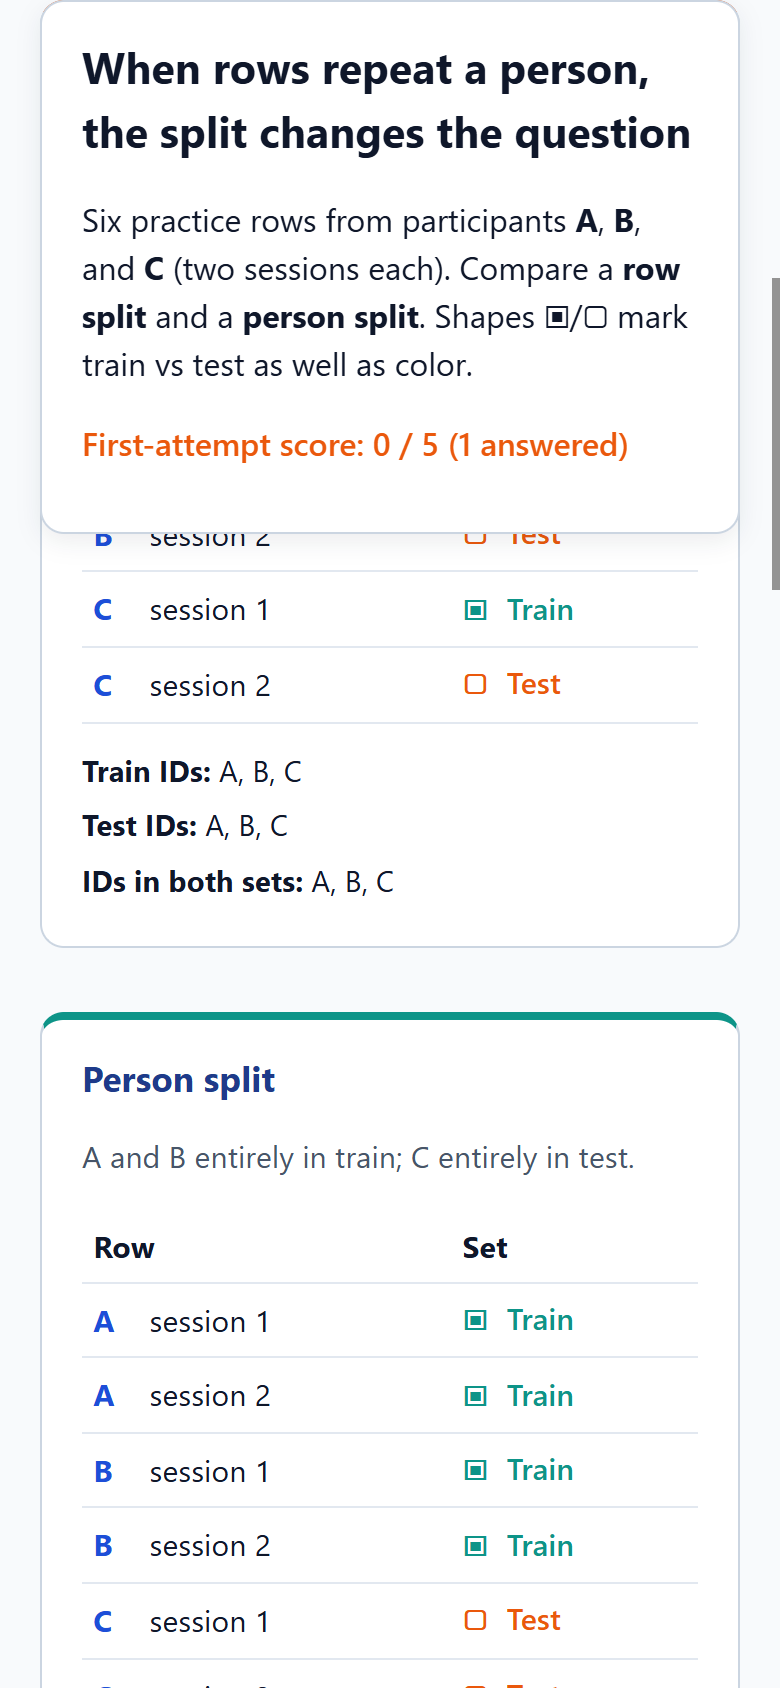
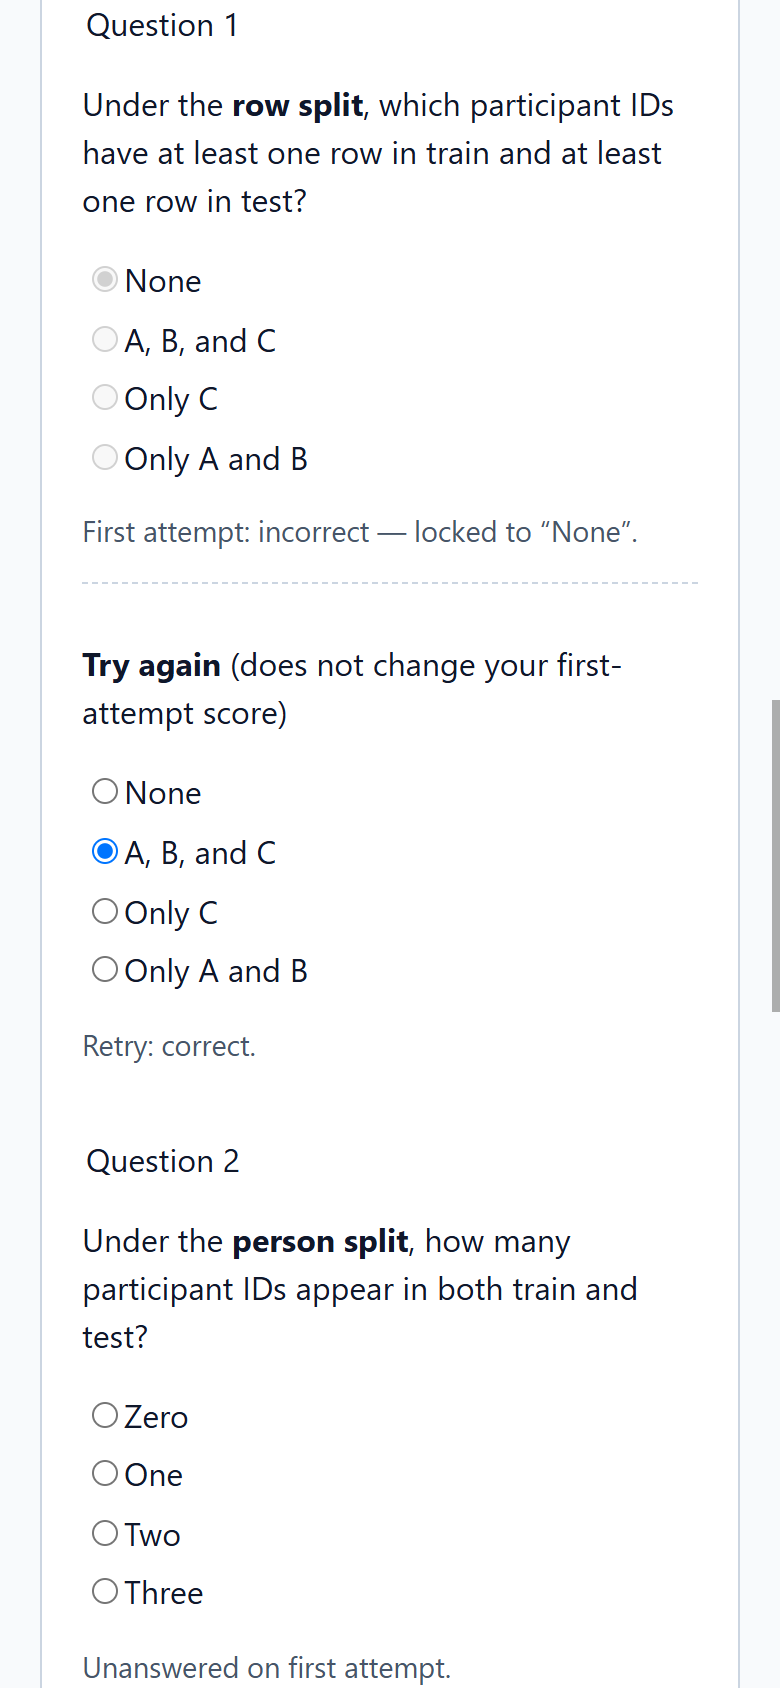
Address Grok review: contrast, mobile evidence, focus checks.

diff --git a/styles.css b/styles.css
@@ -69,7 +69,7 @@ body {
 h1 { font-size: 1.35rem; margin-top: 0; }
 h2 { font-size: 1.1rem; margin-top: 0; color: var(--cobalt-dark); }
 .muted { color: var(--muted); font-size: 0.95rem; }
-.score { font-weight: 600; color: var(--orange); }
+.score { font-weight: 600; color: #9a3412; }
 
 .contrast-banner { border-left: 5px solid var(--orange); }
 .contrast-row { margin: 0.35rem 0; }
@@ -119,7 +119,6 @@ h2 { font-size: 1.1rem; margin-top: 0; color: var(--cobalt-dark); }
 }
 @media (max-width: 640px) {
   .split-grid { grid-template-columns: 1fr; }
-  .intro.card { position: sticky; top: 0; z-index: 2; box-shadow: 0 4px 12px rgba(15, 23, 42, 0.08); }
 }
 
 table { width: 100%; border-collapse: collapse; font-size: 0.95rem; }
@@ -130,8 +129,8 @@ th, td { border-bottom: 1px solid #e2e8f0; padding: 0.4rem 0.35rem; text-align: 
   font-weight: 700;
   color: var(--cobalt);
 }
-.set-train { color: var(--teal); font-weight: 600; }
-.set-test { color: var(--orange); font-weight: 600; }
+.set-train { color: #115e59; font-weight: 600; }
+.set-test { color: #9a3412; font-weight: 600; }
 .set-icon { font-family: monospace; margin-right: 0.25rem; }
 
 .id-summary { list-style: none; padding: 0; margin: 0.75rem 0 0; font-size: 0.92rem; }

diff --git a/app.js b/app.js
@@ -172,6 +172,7 @@ function renderQuestions() {
           saveState();
           renderAll();
           const status = field.querySelector(".status-first");
+          status?.scrollIntoView({ block: "nearest" });
           status?.focus();
         });
       }
